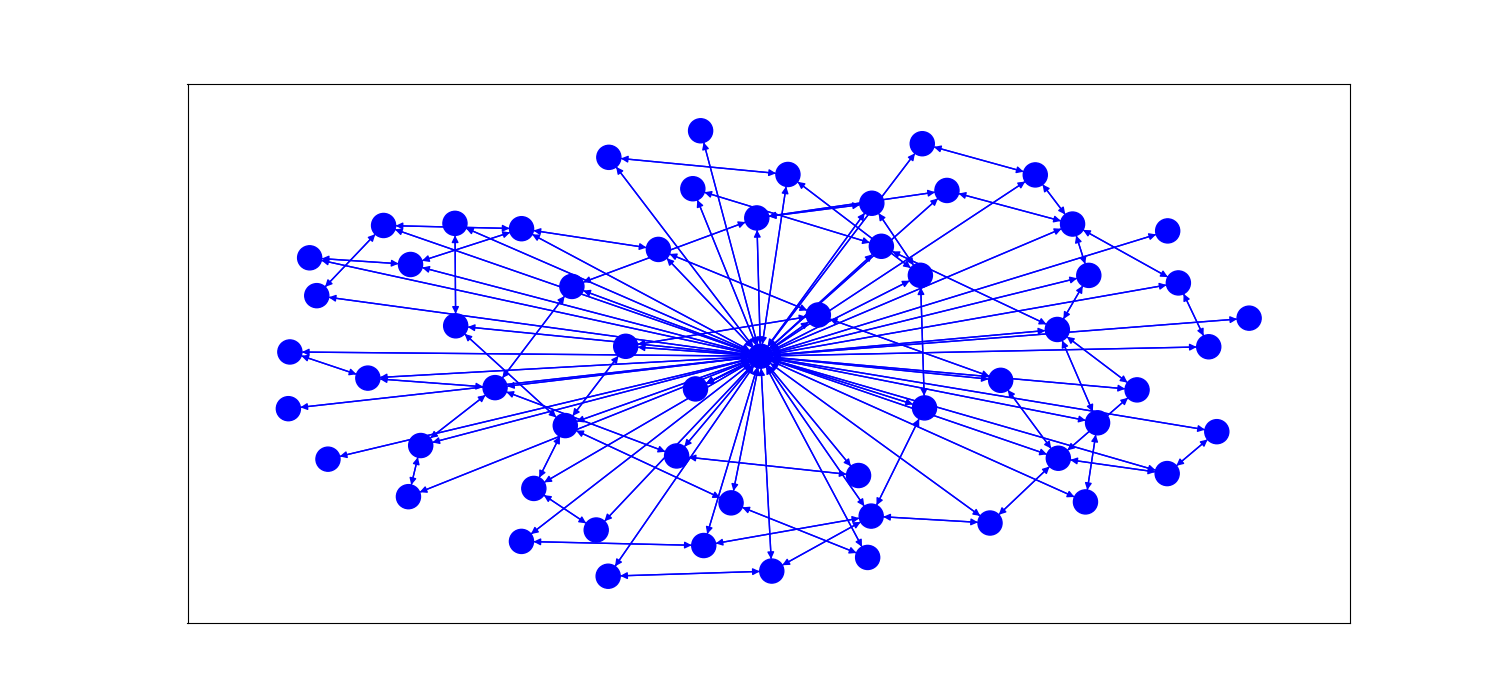
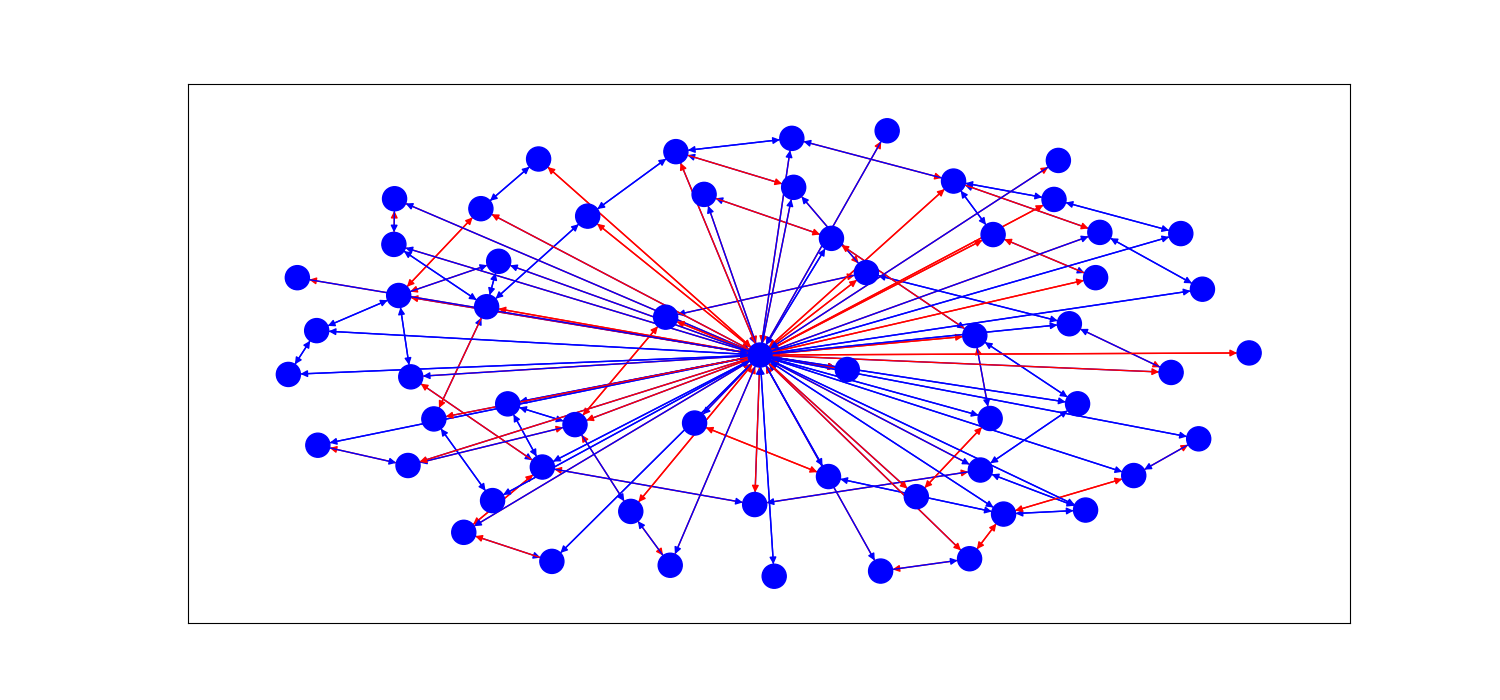
Added colors to edges

Changed region(s): [[0.184, 0.15, 0.8587, 0.84], [0.3373, 0.21, 0.368, 0.27]]

diff --git a/src/explainer.py b/src/explainer.py
@@ -1,5 +1,6 @@
 import os
 import random
+from copy import copy
 
 import dgl
 import torch.nn as nn
@@ -131,6 +132,44 @@ def get_prediction(gnn_model, graph, feat, category, **kwargs):
     return pred_label
 
 
+def visualize(sg, node_index, node_mask, edge_mask):
+    sg_homo = dgl.to_homogeneous(sg)
+    G = dgl.to_networkx(sg_homo)
+    nodes_dict = {}
+    print(sg.num_nodes)
+    count_i = 0
+    for node_type in sg.ntypes:
+        nodes = sg.nodes(node_type)
+        for node_id in nodes:
+            # Process the node
+            nodes_dict[count_i] = node_type
+            count_i += 1
+
+    # Visualize the subgraph using NetworkX and Matplotlib
+    plt.figure(figsize=[15, 7])
+
+    nodes = G.nodes()
+    edges = G.edges()
+    original_edge = {}
+    for edge_i in edges:
+        new_edge = (nodes_dict[edge_i[0]], nodes_dict[edge_i[1]])
+        for edge_mask_k, edge_mask_v in edge_mask.items():
+            if len(edge_mask_v)>0:
+                if (new_edge[0] == edge_mask_k[0]) and (new_edge[1] == edge_mask_k[-1]):
+                    original_edge[edge_i] =edge_mask_v[0].item()
+                    edge_mask[edge_mask_k] = edge_mask_v[1:]
+
+    nx.set_node_attributes(G, nodes_dict, "label")
+    node_colors = ['b' for node in nodes]
+    edge_colors = ['r' if edge >0.5 else 'b' for edge in original_edge.values()]
+    # node_colors = ['b' for node in nodes]
+    # edge_colors = ['b' for edge in edges]
+
+    pos = nx.spring_layout(G)
+    nx.draw_networkx(G, pos=pos, node_color=node_colors, edge_color=edge_colors, with_labels=False)
+    plt.savefig("data/path2_{}.png".format(node_index))
+    print("Saving file ", node_index)
+
 def explain_model(model, g, test_idx, labels, category, args):
     node_index = args.node_index
     print_metrics = args.print_metrics
@@ -173,37 +212,26 @@ def explain_model(model, g, test_idx, labels, category, args):
                                                                       **{'explain_node': True})
         print("EXPLAIN NODE FEAT MASK", feat_mask)
         print("EXPLAIN NODE EDGE MASK", edge_mask)
+        visualize(sg, node_index, feat_mask, edge_mask)
 
     else:
         for idx in range(10):
 
             # Randomly select a node index from the test data
-            i = random.randint(th.min(test_idx), th.max(test_idx))
-            print("Selected node index", i)
-            node_prediction = prediction[i]
+            node_index = random.randint(th.min(test_idx), th.max(test_idx))
+            print("Selected node index", node_index)
+            node_prediction = prediction[node_index]
             print("PREDICTION :", node_prediction)
 
             # Explain the node
-            new_center, sg, feat_mask, edge_mask = explainer.explain_node(category, i, g, feat,
+            new_center, sg, feat_mask, edge_mask = explainer.explain_node(category, node_index, g, feat,
                                                                           **{'explain_node': True})
             print("EXPLAIN NODE FEAT MASK", feat_mask)
             print("EXPLAIN NODE EDGE MASK", edge_mask)
 
             # Convert the subgraph to a homogeneous graph using DGL
-            sg_homo = dgl.to_homogeneous(sg)
-            G = dgl.to_networkx(sg_homo)
+            visualize(sg, node_index, feat_mask, edge_mask)
 
-            # Visualize the subgraph using NetworkX and Matplotlib
-            plt.figure(figsize=[15, 7])
-
-            nodes = G.nodes()
-            edges = G.edges()
-            node_colors = ['b' for node in nodes]
-            edge_colors = ['r' if edge in edge_mask else 'b' for edge in edges]
-
-            pos = nx.spring_layout(G)
-            nx.draw_networkx(G, pos=pos, node_color=node_colors, edge_color=edge_colors, with_labels=False)
-            plt.savefig("data/path2_{}.png".format(i))
 
 
 def gnn_explainer(args):
